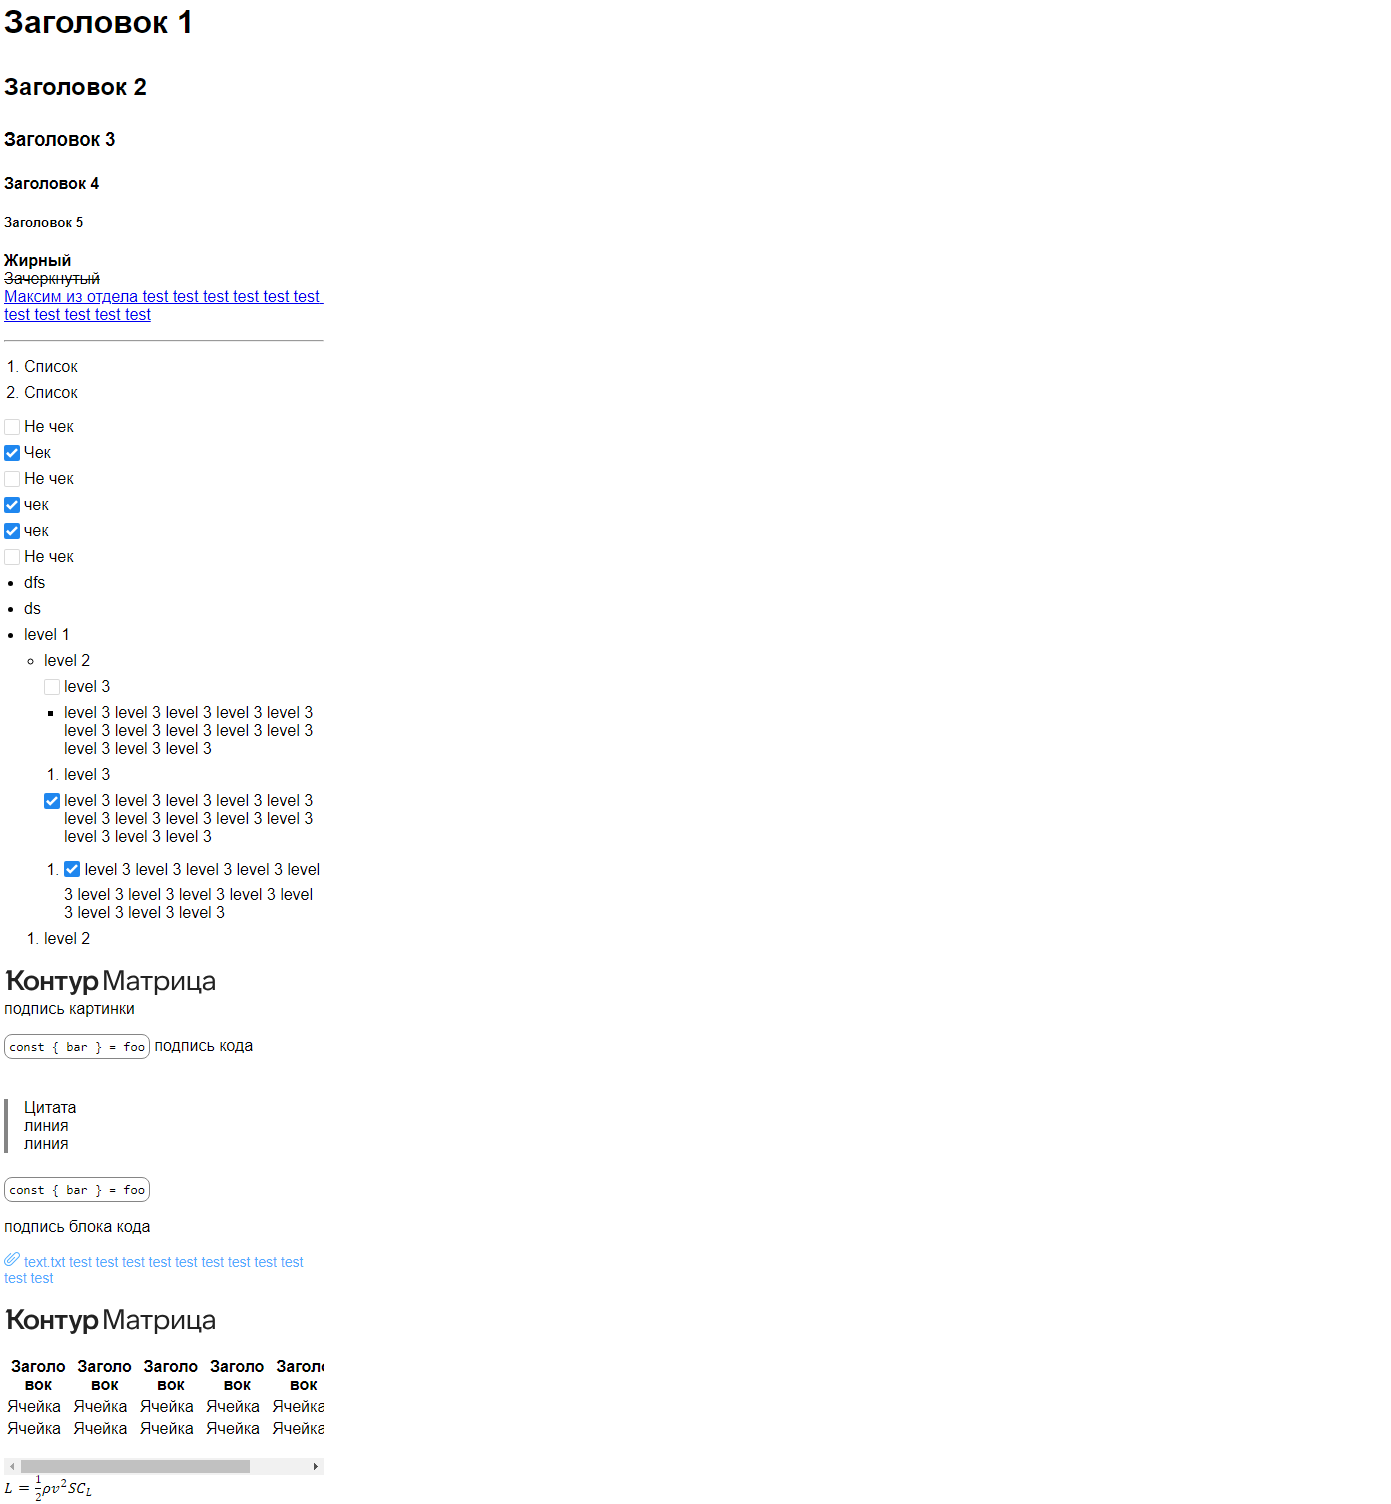
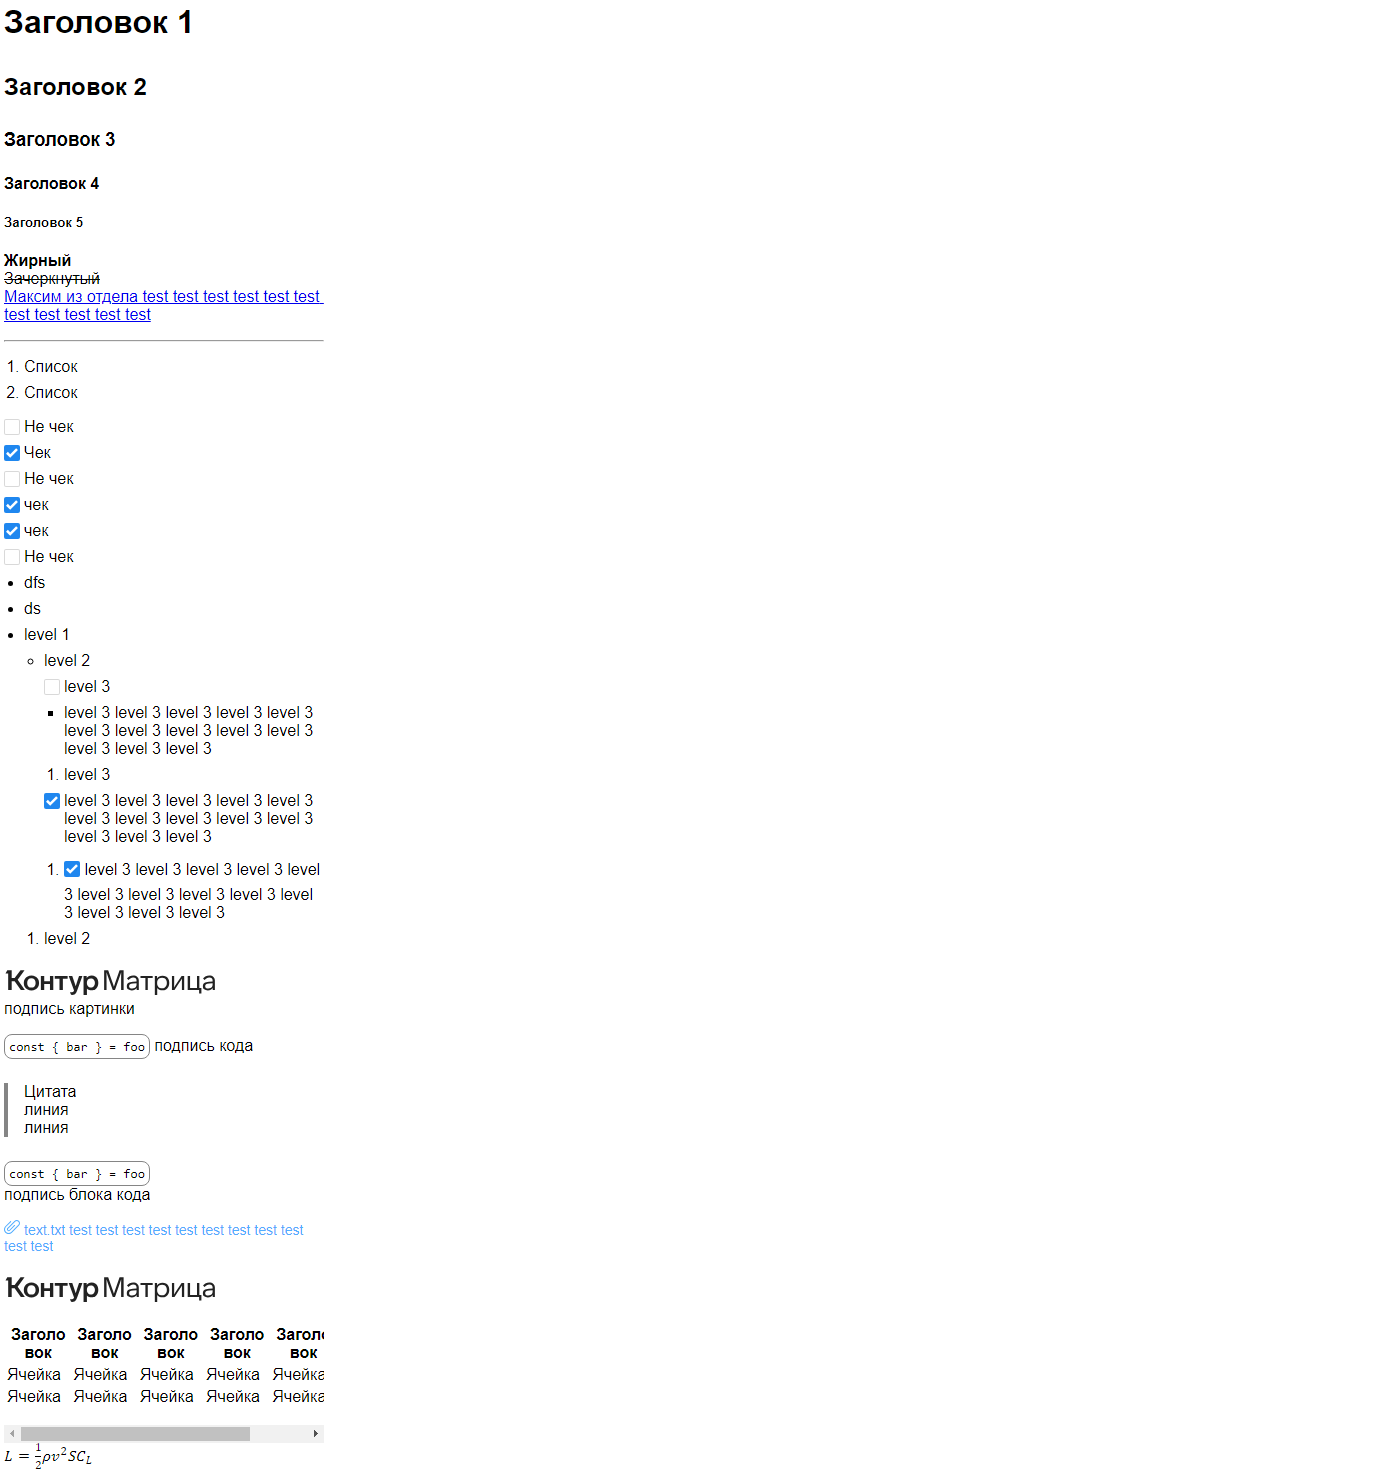
Removed unexpected margin

Changed region(s): [[0.0, 0.0, 0.2473, 1.0], [0.0927, 0.0, 0.1237, 0.0312]]

diff --git a/src/MarkdownViewer/MarkdownViewer.styles.ts b/src/MarkdownViewer/MarkdownViewer.styles.ts
@@ -25,10 +25,8 @@ export const Wrapper = styled.div`
 
   p,
   hr,
-  code,
   table,
-  blockquote,
-  .math {
+  blockquote {
     margin-bottom: 16px;
   }
 
